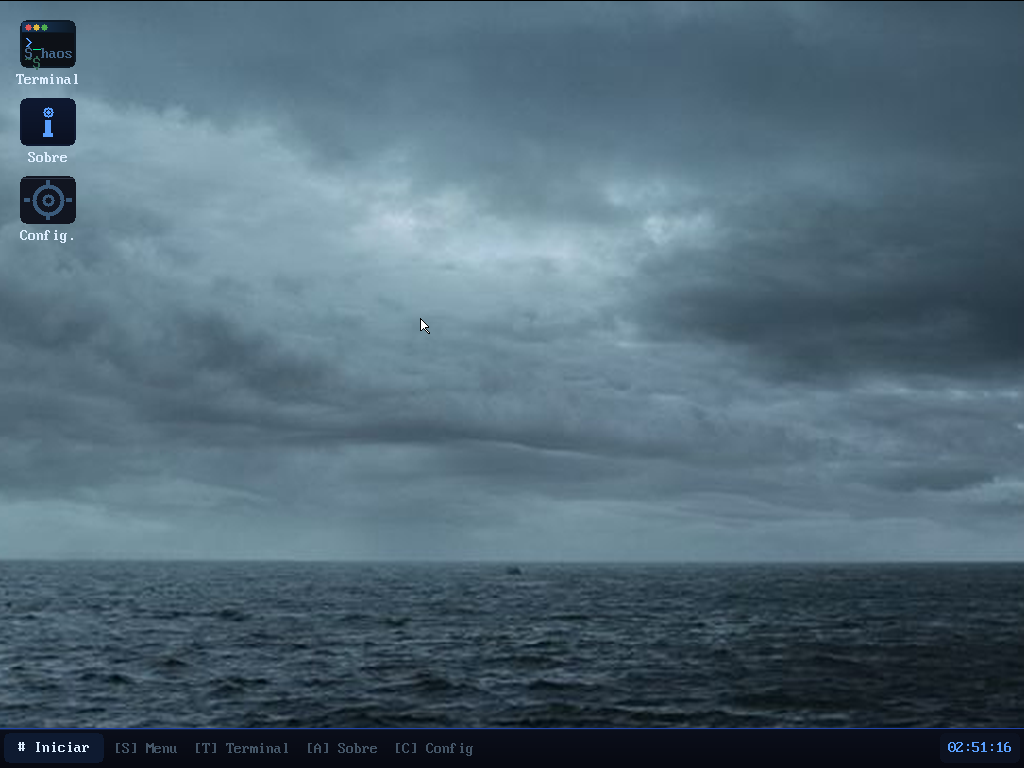
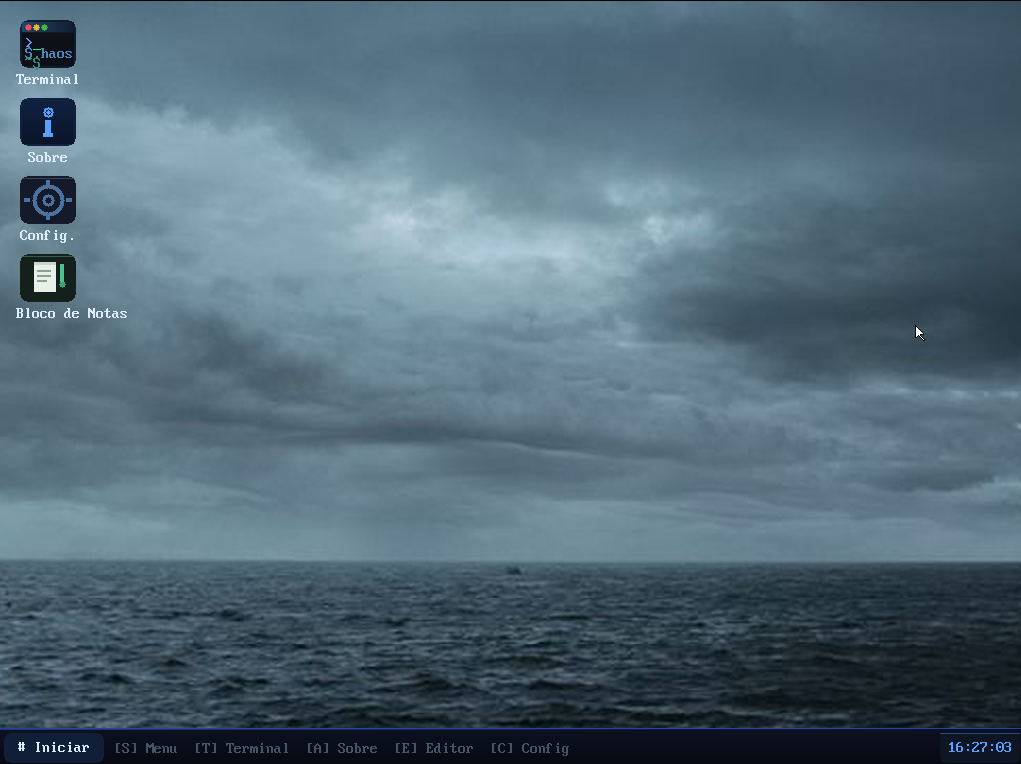
update readme

diff --git a/README.md b/README.md
@@ -1,7 +1,7 @@
-# HAOS — Home-built Operating System v1.1
+# HAOS
 
 [![Architecture](https://img.shields.io/badge/Arch-x86__64-blue)](https://en.wikipedia.org/wiki/X86-64)
-[![Language](https://img.shields.io/badge/Lang-C%20%2B%20ASM%20%2B%20C++-orange)]()
+[![Language](https://img.shields.io/badge/Lang-C%20%2B%20ASM%20%2B%20C%2B%2B-orange)]()
 [![Boot](https://img.shields.io/badge/Boot-Multiboot2%20%2B%20GRUB-green)]()
 
 O HAOS é um sistema operacional bare-metal de 64 bits desenvolvido de forma independente e educacional. O projeto visa a implementação de um núcleo funcional em arquitetura x86_64, utilizando C freestanding, Assembly e C++, sem dependências de bibliotecas externas ou do sistema hospedeiro.
@@ -10,7 +10,7 @@ O HAOS é um sistema operacional bare-metal de 64 bits desenvolvido de forma ind
 
 ![HAOS rodando no VirtualBox](assets/README/VirtualBox_HAOS.png)
 
-> UI do sistema
+> Interface do sistema em execução
 
 ---
 
@@ -20,18 +20,25 @@ O HAOS é um sistema operacional bare-metal de 64 bits desenvolvido de forma ind
 - **Kernel de 64 bits:** Operação em Long Mode com inicialização via Multiboot2 (GRUB).
 - **GDT / IDT:** Tabelas de descritores e tratamento de interrupções configurados manualmente.
 - **PIC / PIT:** Controlador de interrupções programável e timer de sistema a 100 Hz.
-- **Gerenciamento Avançado de Memória:** Implementação de uma `KernelHeap` robusta em C++ OOP. Apresenta algoritmo *First-Fit* para alocação e suporte a *Coalescing* automático (fusão de blocos adjacentes vazios) na liberação real de memória. Sobrecarga global dos operadores nativos `new`, `new[]`, `delete` e `delete[]`.
+- **Gerenciamento Avançado de Memória:**
+  - **PageFrameAllocator (PFA):** Alocação de páginas físicas via bitmap, usando o mapa de memória do Multiboot2.
+  - **KernelHeap:** Alocador *First-Fit* com coalescência automática (fusão de blocos livres adjacentes).
+  - **Operadores globais new/delete:** Sobrecarga completa para alocação dinâmica em C++ (`new`, `new[]`, `delete`, `delete[]`).
+  - **API C:** `kmalloc`, `kzalloc`, `kfree` e utilitários de string (`kstrcpy`, `kstrcat`, `kitoa`, etc.).
 - **RTC:** Leitura do relógio de tempo real do hardware para exibição de data e hora.
+- **Sysinfo:** Detecção de CPU via instrução CPUID (vendor, brand string e número de núcleos).
 
 ### Drivers
-- **Framebuffer:** Driver de vídeo direto com suporte a double-buffering (shadow + cache de fundo) para renderização sem flickering.
-- **Teclado PS/2:** Driver completo com leitura de scancode e conversão de caracteres.
+- **Framebuffer:** Driver de vídeo direto com double-buffering (shadow + cache de fundo) para renderização sem flickering.
+- **Teclado PS/2:** Driver completo com leitura de scancode, conversão de caracteres, suporte a Shift, Caps Lock, Ctrl e setas (com e sem Shift para seleção de texto).
 - **Mouse PS/2:** Captura de posição e botões com snapping de bordas.
-- **Fontes & UTF-8:** Renderização de texto com fonte bitmap e conversão UTF-8 → CP437.
+- **Fontes & UTF-8:** Renderização de texto com fonte bitmap 8×16 (CP437) e conversão UTF-8 → CP437, com suporte a acentos portugueses e caracteres box-drawing.
+- **RTC:** Leitura e formatação de data/hora em tempo real.
 
 ### Interface Gráfica (GUI)
-- **Gerenciador de Janelas (WM):** Organizado sob uma hierarquia de classes orientada a objetos em C++ (`Widget`, `Window2`, `Button`, etc.). Suporta foco, arraste responsivo pelo título e fechamento de janelas via mouse.
-- **Desktop com Ícones:** Atalhos clicáveis para Terminal, Sobre e Configurações.
+- **Gerenciador de Janelas (WM):** Sistema de janelas com foco, arraste pelo título, minimização, fechamento e ordem de empilhamento.
+- **Widgets OOP (C++):** Hierarquia orientada a objetos com `Widget` (base abstrata), `Button`, `Label` e `Window2` (contêiner).
+- **Desktop com Ícones:** Atalhos clicáveis para Terminal, Sobre, Configurações e Bloco de Notas.
 - **Taskbar:** Barra de tarefas com botão Iniciar, clock em tempo real e indicador da janela ativa.
 - **Menu Iniciar:** Menu pop-up com acesso a aplicativos e opção de reinicialização.
 - **Sistema de Wallpaper:** Suporte a gradiente padrão ou imagens convertidas, com três modos de exibição — Preencher, Centralizar e Lado a lado.
@@ -39,23 +46,27 @@ O HAOS é um sistema operacional bare-metal de 64 bits desenvolvido de forma ind
 - **Limitador de FPS:** Renderização limitada a ~50 fps via tick do PIT.
 
 ### Aplicativos
-- **Terminal:** Emulador de console interativo com histórico de comandos (teclas ↑/↓), scroll e cursor piscante.
-- **Sobre:** Janela com informações de versão e créditos do sistema.
-- **Configurações:** Janela de configuração do papel de parede com seleção de imagem e modo de exibição via teclado e mouse.
+- **Terminal:** Emulador de console interativo com histórico de comandos (teclas ↑/↓), scroll, cursor piscante e suporte a comandos de sistema e VFS.
+- **Bloco de Notas (Editor):** Editor de texto multi-linha com cursor navegável (setas), seleção de texto (Shift+setas e mouse), copiar/colar/recortar (Ctrl+C/V/X), selecionar tudo (Ctrl+A), salvar (Ctrl+S ou F2) e diálogo "salvar como" integrado ao VFS.
+- **Sobre:** Janela com informações de versão, arquitetura, boot, vídeo, GUI, input e kernel.
+- **Configurações:** Janela para seleção de wallpaper, modo de exibição e idioma (Português/English), com informações de hardware (CPU, RAM, heap).
 
 ### Sistema de Arquivos (VFS)
 - **Virtual File System:** Árvore de nós em memória com suporte a arquivos e diretórios.
-- Operações disponíveis: criar, listar, navegar, ler, escrever, anexar conteúdo, remover e inspecionar metadados.
+  - **Limites:** Nome de arquivo: 64 caracteres; Máx. arquivos por diretório: 128; Tamanho máximo por arquivo: 1 MB (crescimento dinâmico).
+- **Operações disponíveis:** criar, listar, navegar, ler, escrever, anexar conteúdo, remover e inspecionar metadados.
+
+### Internacionalização (i18n)
+- **Suporte a múltiplos idiomas:** Português (Brasil) e Inglês, com alternância em tempo de execução.
+- **Tabelas de strings centralizadas:** Todas as mensagens da UI e do terminal são traduzíveis via `tr(STR_ID)`.
 
 ---
 
 ## Estrutura do Projeto
 
-
 ```
-haos/
 ├── boot/           # Código de inicialização e transição para Long Mode (ASM)
-├── kernel/         # Núcleo: GDT, IDT, PIC, PIT, teclado, memória (KernelHeap C++), RTC
+├── kernel/         # Núcleo: GDT, IDT, PIC, PIT, teclado, memória, RTC
 ├── drivers/        # Framebuffer, mouse, fonte, UTF-8↔CP437
 ├── fs/             # Virtual File System (VFS)
 ├── gui/
@@ -68,9 +79,8 @@ haos/
 ├── tools/
 │   └── img2wallpaper.py  # Ferramenta de conversão de imagens para wallpaper
 ├── iso/            # Configuração do GRUB para geração da imagem bootável
-├── linker.ld       # Script de ligação para organização da memória (Pronto para C++17)
+├── linker.ld       # Script de ligação para organização da memória 
 └── Makefile        # Automação de compilação e emulação
-
 ```
 
 ---
@@ -80,8 +90,8 @@ haos/
 ### Dependências (Ubuntu / Debian)
 
 ```bash
-sudo apt install gcc-x86-64-linux-gnu g++-x86-64-linux-gnu nasm grub-pc-bin xorriso qemu-system-x86
-
+sudo apt install gcc-x86-64-linux-gnu g++-x86-64-linux-gnu nasm grub-pc-bin xorriso qemu-system-x86 python3-pip
+pip3 install Pillow
 ```
 
 ### Comandos Principais
@@ -103,9 +113,17 @@ sudo apt install gcc-x86-64-linux-gnu g++-x86-64-linux-gnu nasm grub-pc-bin xorr
 Use a ferramenta incluída para converter imagens:
 
 ```bash
-python3 tools/img2wallpaper.py imagem.png assets/wallpapers/
+# Converte uma única imagem
+python3 tools/img2wallpaper.py assets/minha_imagem.png
 
+# Converte todas as imagens de uma pasta
+python3 tools/img2wallpaper.py assets/imagens/
+
+# Especifica resolução (padrão: 1024×768)
+python3 tools/img2wallpaper.py imagem.png --width 1920 --height 1080
 ```
+
+Após converter, adicione os arquivos `.c` gerados ao `Makefile` em `WALLPAPER_SRCS` e compile com `make wallpapers`.
 
 ---
 
@@ -117,8 +135,22 @@ python3 tools/img2wallpaper.py imagem.png assets/wallpapers/
 | `T` | Abrir / focar o Terminal |
 | `A` | Abrir janela Sobre |
 | `C` | Abrir janela de Configurações |
-| `ESC` | Fechar menu ativo |
-| **Mouse** | Click para focar/arrastar janelas |
+| `E` | Abrir Bloco de Notas |
+| `ESC` | Fechar menu ativo / janela |
+| **Mouse** | Clique para focar/arrastar janelas |
+
+### Editor de Texto (Bloco de Notas)
+
+| Tecla | Ação |
+| --- | --- |
+| `←/↑/↓/→` | Mover cursor |
+| `Shift+←/↑/↓/→` | Estender seleção |
+| `Ctrl+A` | Selecionar todo o texto |
+| `Ctrl+C` | Copiar seleção |
+| `Ctrl+X` | Recortar seleção |
+| `Ctrl+V` | Colar |
+| `Ctrl+S` / `F2` | Salvar arquivo |
+| `ESC` | Fechar (ou cancelar "salvar como") |
 
 ---
 
@@ -131,16 +163,17 @@ python3 tools/img2wallpaper.py imagem.png assets/wallpapers/
 | `help` | Lista todos os comandos disponíveis |
 | `clear` | Limpa o buffer da tela |
 | `about` | Exibe versão e créditos |
-| `date` | Data e hora atual (via RTC) |
+| `date` | Data e hora atual |
 | `mem` | Uso em tempo real da Heap do Kernel |
 | `reboot` | Reinicia o hardware |
-| `echo` | Imprime texto na saída do terminal |
-| `pwd` | Exibe o diretório de trabalho atual |
+| `echo <texto>` | Imprime texto na saída do terminal |
+| `lang <pt\|en>` | Altera o idioma do sistema |
 
 ### Manipulação de Arquivos (VFS)
 
 | Comando | Descrição |
 | --- | --- |
+| `pwd` | Exibe o diretório de trabalho atual |
 | `ls [dir]` | Lista conteúdo do diretório |
 | `cd <dir>` | Navega para o diretório |
 | `mkdir <nome>` | Cria um novo diretório |
@@ -150,15 +183,17 @@ python3 tools/img2wallpaper.py imagem.png assets/wallpapers/
 | `cat <arq>` | Exibe o conteúdo do arquivo |
 | `stat <arq>` | Exibe metadados do nó VFS |
 | `rm <nome>` | Remove arquivo ou diretório |
+| `edit <nome>` | Abre o Bloco de Notas com o arquivo |
 
 ---
 
 ## Limitações Técnicas Atuais
 
 1. **Volatilidade:** O sistema de arquivos opera estritamente em RAM; dados não são persistidos em disco após reinicialização.
-2. **Escalabilidade do FS:** O VFS dinâmico na RAM ainda possui limite máximo de 32 nós (arquivos ou diretórios).
-3. **Capacidade de Arquivo:** O tamanho máximo por arquivo individual está fixado em 256 bytes.
-4. **Isolamento de Processos:** O sistema opera integralmente em Ring 0 (Kernel Mode) sem separação de espaço de usuário e multitarefa preemptiva.
+2. **Escalabilidade do FS:** Limite de 128 itens por diretório e 1 MB por arquivo.
+3. **Isolamento de Processos:** O sistema opera integralmente em Ring 0 (Kernel Mode) sem separação de espaço de usuário e multitarefa preemptiva.
+4. **Memória:** A heap do kernel cresce dinamicamente via PFA, mas não há suporte a memória virtual avançada (paging apenas para mapeamento identity).
+5. **Drivers:** Limitado a PS/2 para entrada e VESA para vídeo; sem suporte a USB, PCI, ACPI avançado ou som.
 
 ---
 
@@ -172,3 +207,5 @@ Para entender os fluxos de inicialização, a arquitetura visual interna e o fun
 
 * [OSDev Wiki](https://wiki.osdev.org/)
 * [Multiboot2 Specification](https://www.gnu.org/software/grub/manual/multiboot2/multiboot.html)
+* [Intel 64 and IA-32 Architectures Software Developer Manuals](https://www.intel.com/content/www/us/en/developer/articles/technical/intel-sdm.html)
+* [CPUID Instruction](https://en.wikipedia.org/wiki/CPUID)
